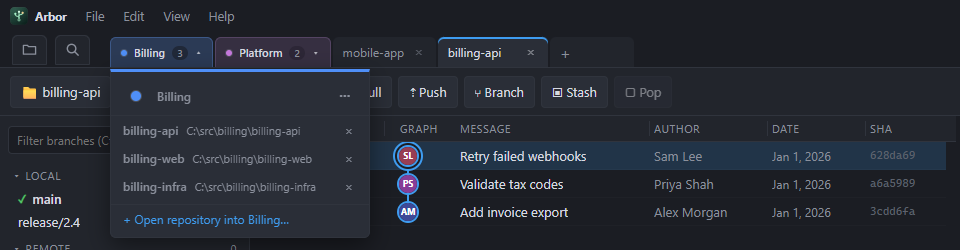
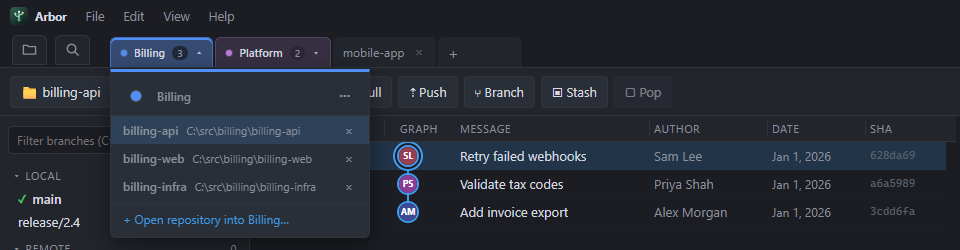
Add image comparison and merge conflict screenshots to the README and refresh the tab group ones

diff --git a/README.md b/README.md
@@ -69,7 +69,7 @@ Arbor fetches your open repositories in the background, every ten minutes by def
 
 ### A complete git toolkit
 
-- **The graph.** Every branch, remote and tag on one graph with coloured lanes, merge curves and author avatars. Branches and tags have their own column, and each commit can preview the start of its description. Drag column edges to resize them.
+- **The graph.** Every branch, remote and tag on one graph with coloured lanes, merge curves and author avatars. Branches and tags have their own column, and each commit can preview the start of its description. Drag column edges to resize them, or double-click an edge to fit the column to its content.
 - **Everything one right-click away.** From a commit, a branch or tag badge, or a sidebar entry you can:
   - check out any branch, including a remote branch when your local copy is behind it;
   - pull and push branches you haven't checked out;
@@ -78,8 +78,31 @@ Arbor fetches your open repositories in the background, every ten minutes by def
   - rename or delete a branch locally and on the remote;
   - save a patch, and solo or hide branches in the graph.
 - **Changes.** Stage, unstage and discard per file, per folder or everything at once, in a folder tree or flat list. Click a file to see its diff, double-click to edit it in place with syntax highlighting, and commit with Ctrl+Enter.
-- **Image diffs.** Changed images get side-by-side, swipe, onion-skin and difference views.
-- **Merge conflicts.** When a merge, cherry-pick, revert or rebase stops, conflicted files are listed with one-click ours or theirs. Opening a file shows each conflict side by side with an editable result. Abort or continue from the same banner.
+
+### See exactly what changed in an image
+
+Design and asset changes deserve better than "binary file changed". Select any changed image, in a commit or in your uncommitted work, to compare the two versions four ways:
+
+- **2-up** shows the old and new versions side by side with their dimensions.
+- **Swipe** drags a divider across the image to reveal one version over the other.
+- **Onion skin** fades smoothly between the two.
+- **Difference** blends them so only changed pixels show; anything identical appears black.
+
+![Comparing two versions of an image side by side](docs/image-compare.png)
+
+![Swiping between two versions of an image](docs/image-swipe.png)
+
+### Resolve merge conflicts without leaving Arbor
+
+When a merge, cherry-pick, revert or rebase stops on conflicts, a banner shows the operation in progress and the changes panel lists every conflicted file. Open one to work through it:
+
+- Each conflict shows your side (HEAD) and theirs (the incoming branch) next to each other.
+- Resolve a conflict with **Use ours**, **Use theirs**, **Use both** or **Both, theirs first**, or settle every conflict at once with **All ours** or **All theirs**.
+- Take the whole file from either side with **File: ours** or **File: theirs**.
+- The merged result is a full editor with syntax highlighting, so you can adjust it before choosing **Mark resolved**.
+- **Commit merge** (or **Continue** for a rebase, cherry-pick or revert) and **Abort** sit in the same banner.
+
+![Resolving a merge conflict, with one of two conflicts settled and the merged result below](docs/merge-conflicts.png)
 
 ### Safe by design
 
@@ -108,7 +131,7 @@ Tab groups keep related repositories together: a product's API, web app and infr
 
 ![Right-clicking a repository tab to move it into a group](docs/tab-move-to-group.png)
 
-**Switch between repositories.** Click a group to drop down its repositories, then click one to open it. The repository you're working in stays visible as a tab next to its group. Ctrl+P jumps to any repository directly.
+**Switch between repositories.** Click a group to drop down its repositories, then click one to open it. The group holding the repository you have open is highlighted, and its list marks which one is open. Ctrl+P jumps to any repository directly.
 
 **Manage the group.** Right-click a group, or use **⋯** in its list:
 
